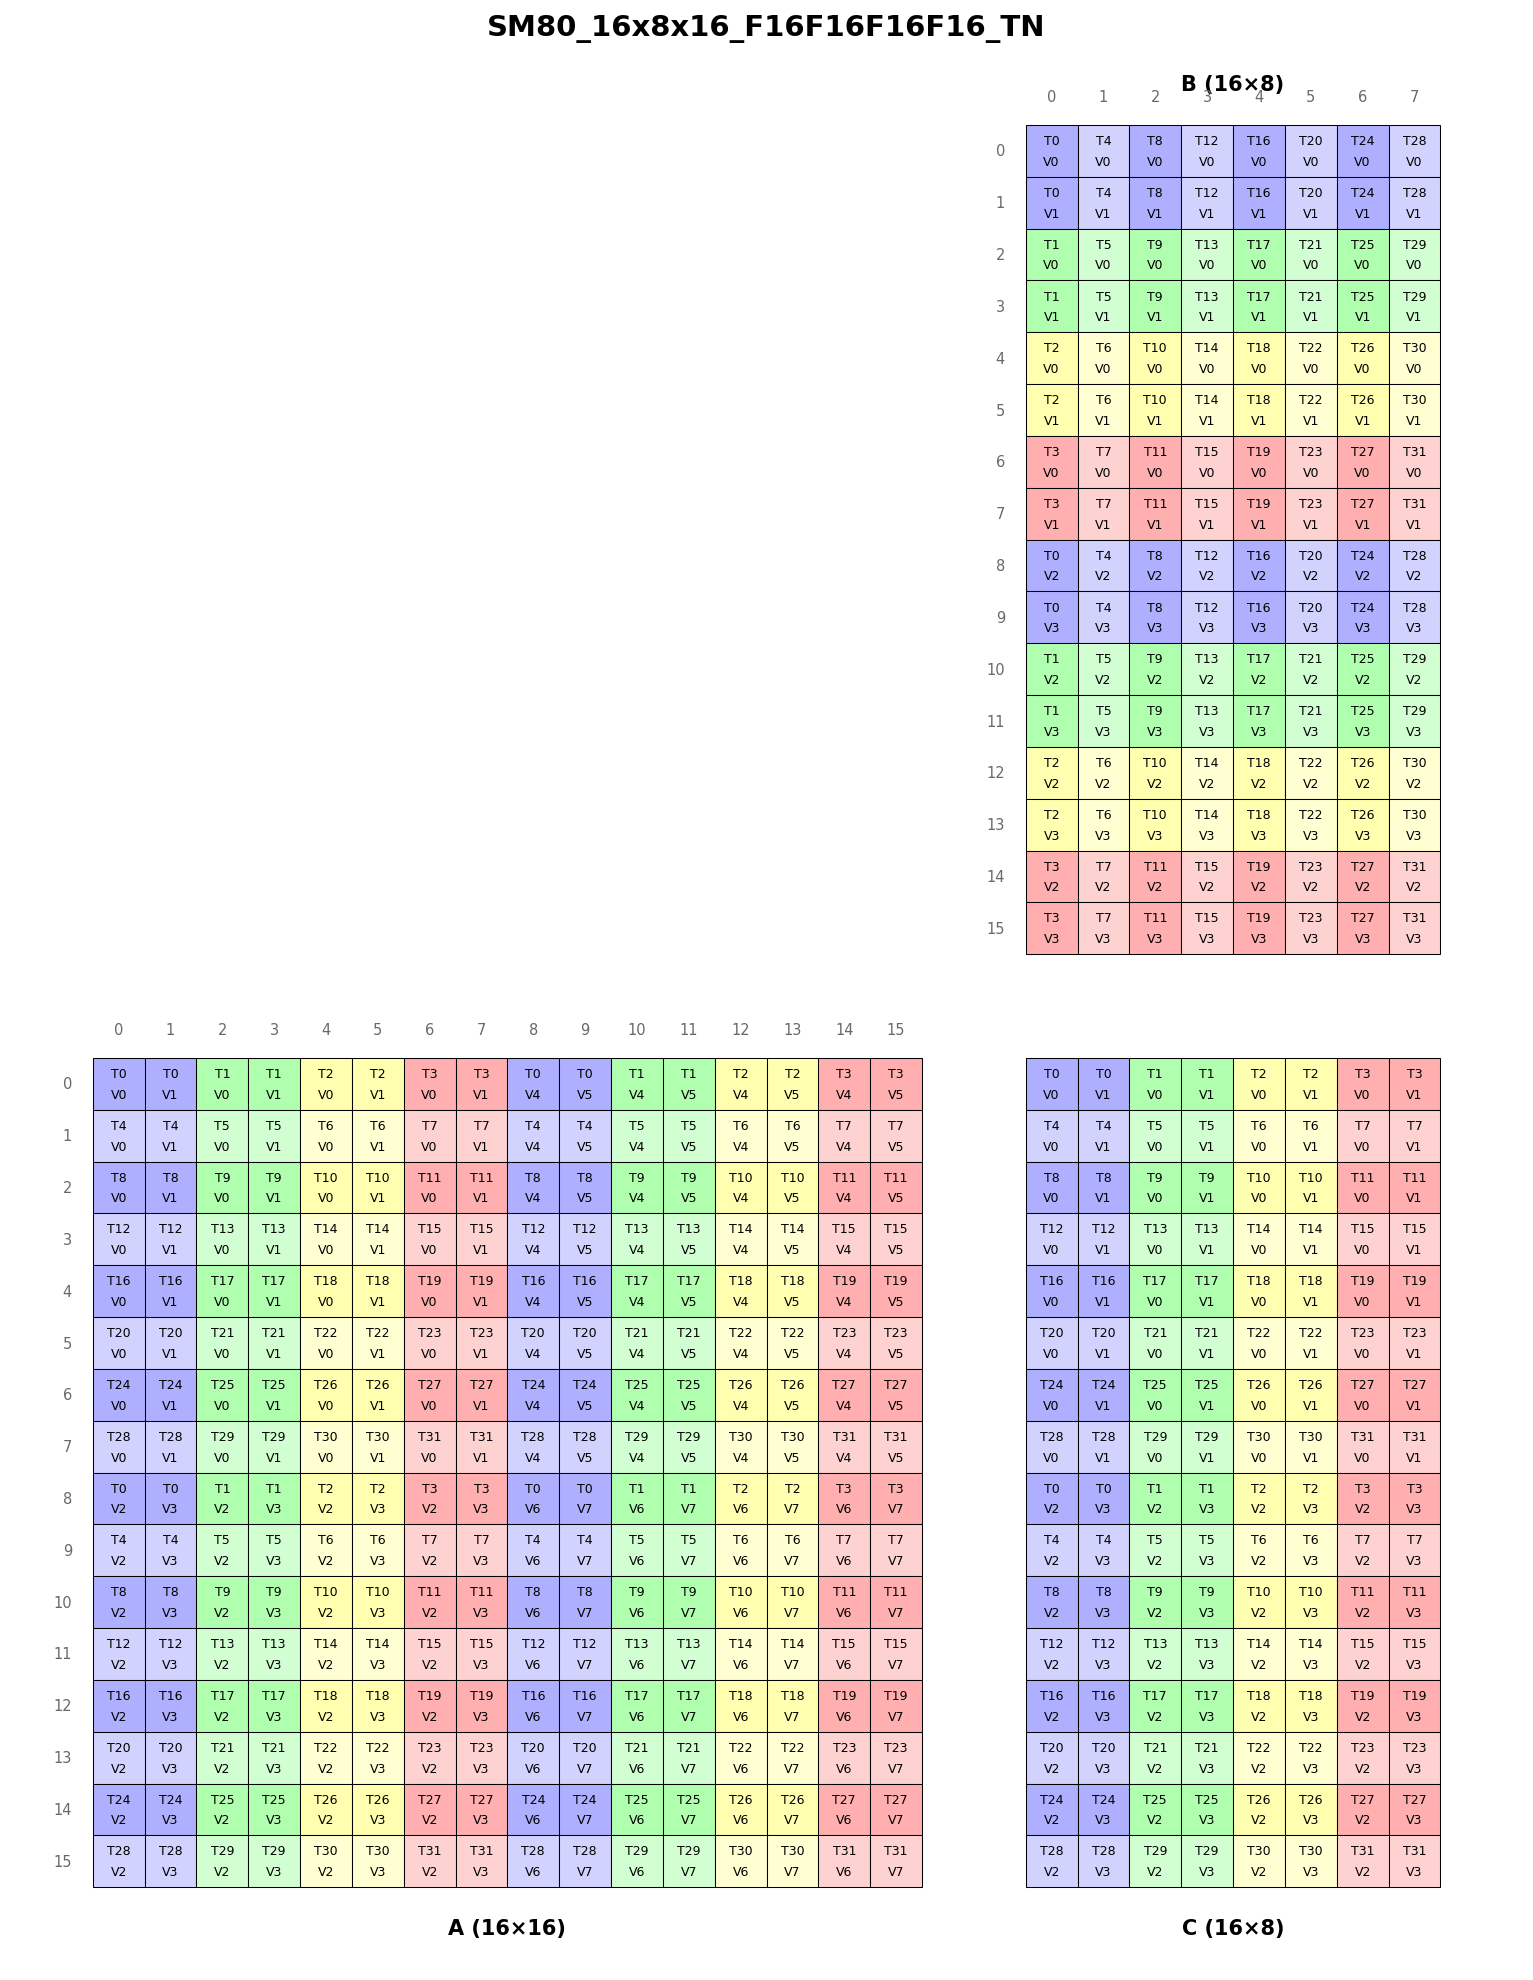
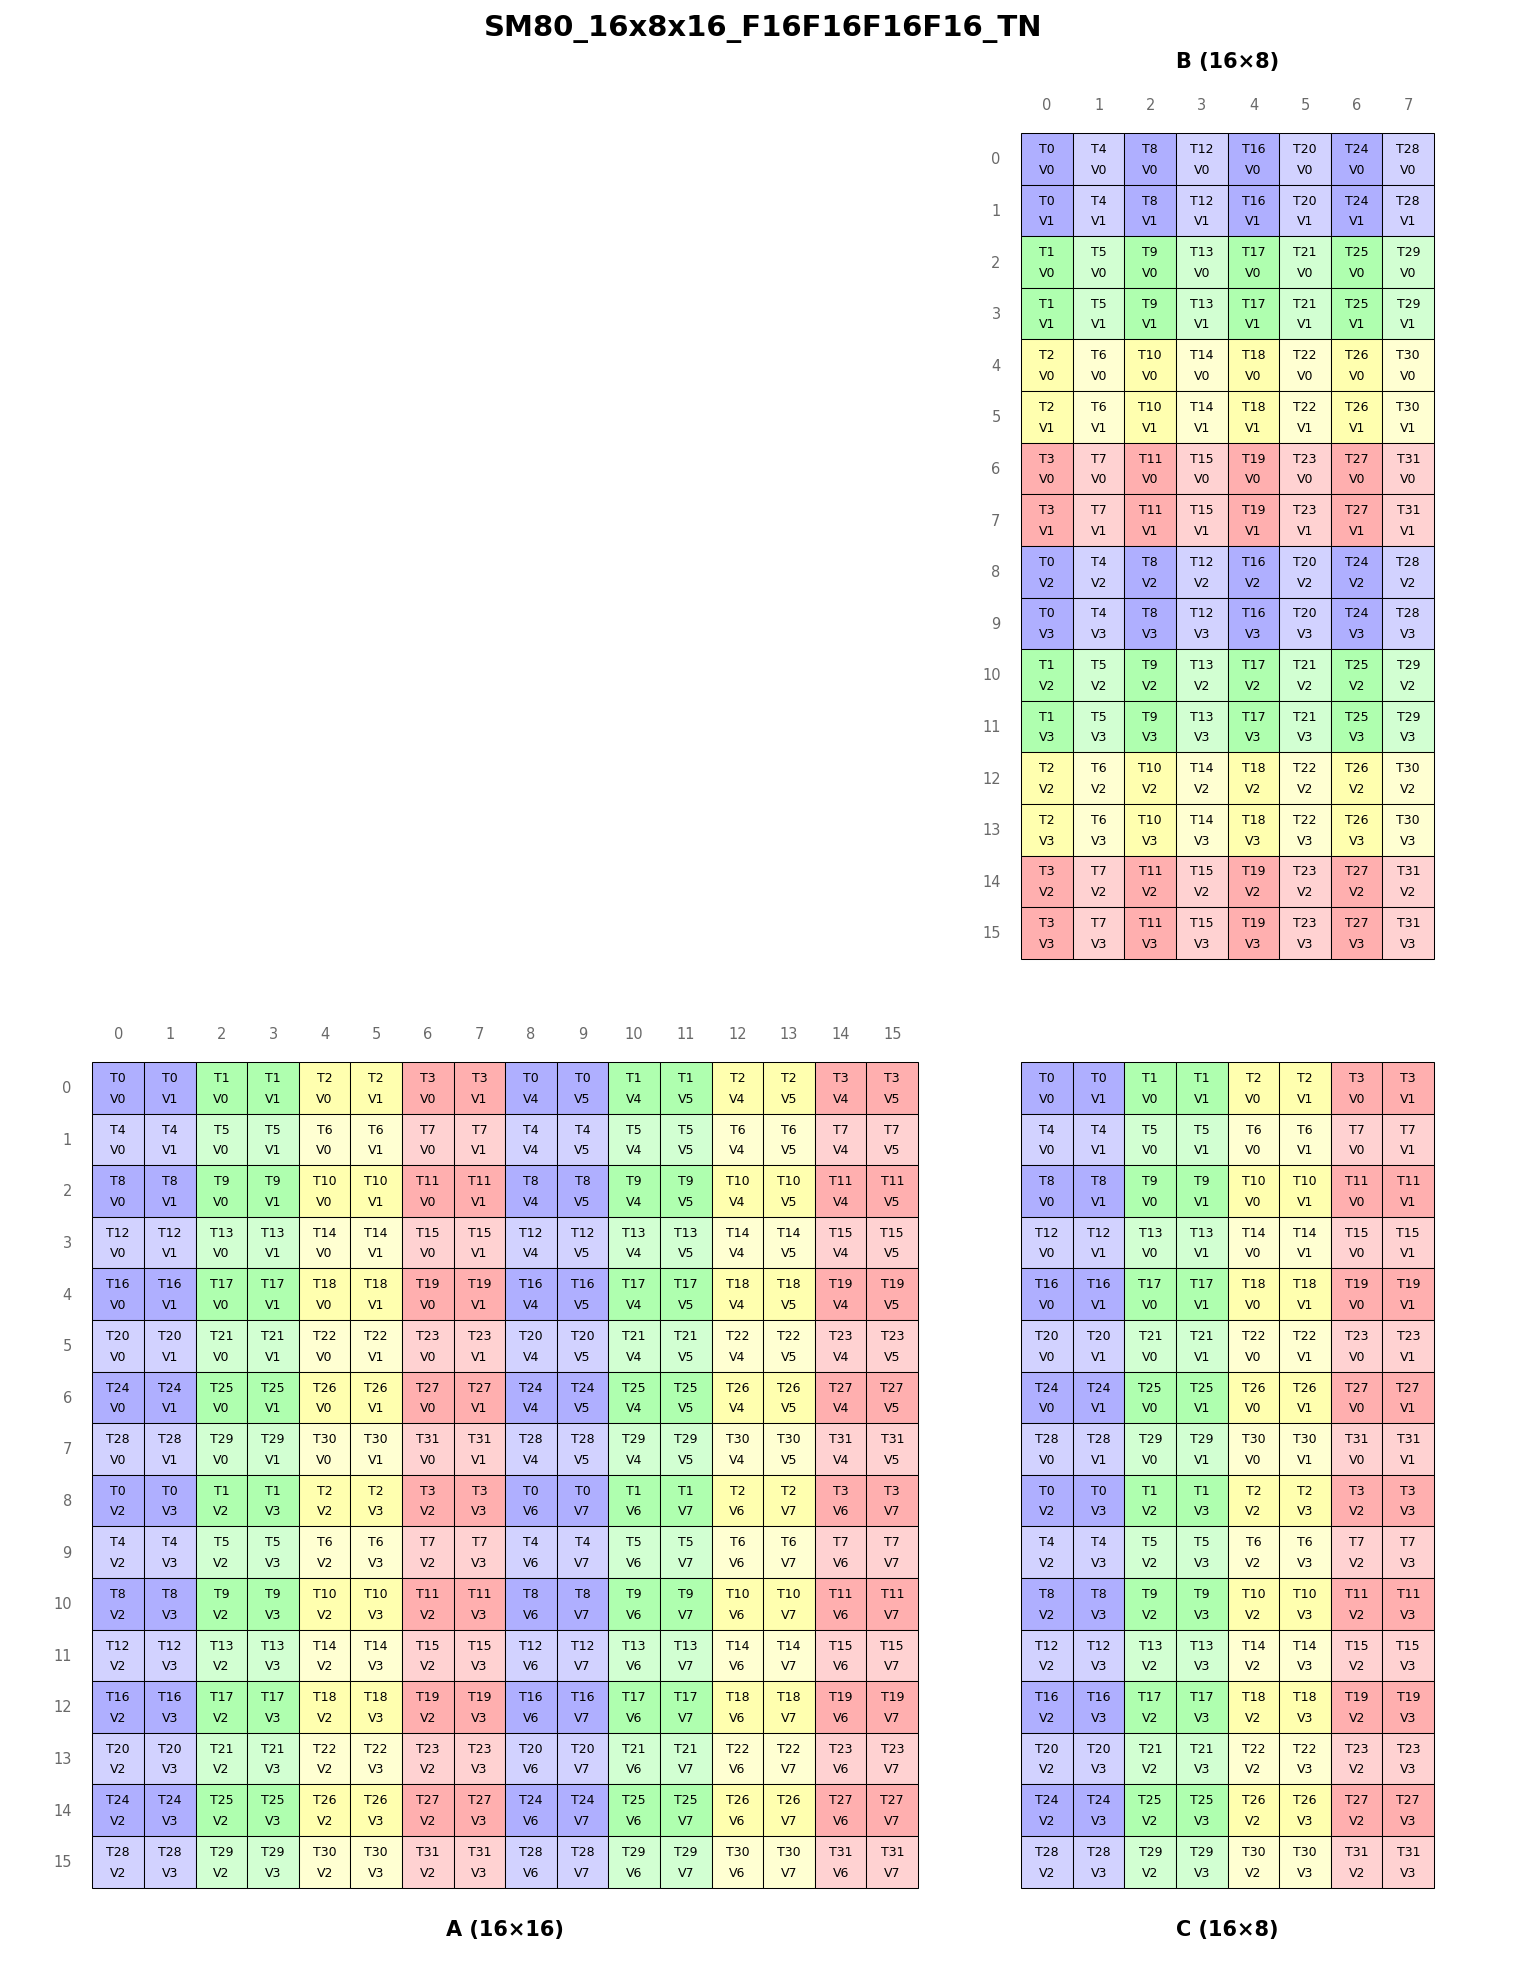
[docs] Add make docs target to regenerate documentation figures
Add docs/generate_figures.py that regenerates all 15 PNGs in
docs/images/ from the code snippets in README.md and viz_api.md.
Refresh the 7 figures that had drifted from the current viz output.

diff --git a/docs/generate_figures.py b/docs/generate_figures.py
@@ -1,0 +1,148 @@
+#!/usr/bin/env python3
+"""Regenerate all PNG figures used in the documentation.
+
+Run from the repo root:
+    PYTHONPATH=src python3 docs/generate_figures.py
+Or:
+    make docs
+"""
+
+import shutil
+from pathlib import Path
+
+from layout_algebra import Layout, Swizzle
+from layout_algebra.atoms_nv import SM80_16x8x16_F16F16F16F16_TN
+from layout_algebra.layout_utils import tile_mma_grid
+from layout_algebra.viz import (
+    draw_composite,
+    draw_layout,
+    draw_slice,
+    draw_swizzle,
+    draw_tiled_grid,
+    draw_tv_layout,
+    draw_mma_layout,
+)
+
+IMAGES = Path(__file__).resolve().parent / "images"
+
+
+def main():
+    IMAGES.mkdir(exist_ok=True)
+
+    layout_8x8 = Layout((8, 8), (8, 1))
+
+    # -- draw_layout (README + viz_api) --
+    draw_layout(
+        layout_8x8,
+        IMAGES / "draw_layout.png",
+        title="Row-Major 8x8",
+        colorize=True,
+    )
+    # README uses a separate file with identical content
+    shutil.copy(IMAGES / "draw_layout.png", IMAGES / "row_major_8x8.png")
+
+    # -- draw_swizzle (README + viz_api) --
+    draw_swizzle(
+        layout_8x8,
+        Swizzle(3, 0, 3),
+        IMAGES / "draw_swizzle.png",
+        colorize=True,
+    )
+    shutil.copy(IMAGES / "draw_swizzle.png", IMAGES / "swizzle_8x8.png")
+
+    # -- color_by presets --
+    draw_layout(
+        layout_8x8,
+        IMAGES / "color_by_row.png",
+        color_layout=Layout((8, 8), (1, 0)),
+        colorize=True,
+    )
+    draw_layout(
+        layout_8x8,
+        IMAGES / "color_by_col.png",
+        color_layout=Layout((8, 8), (0, 1)),
+        colorize=True,
+    )
+    draw_layout(
+        layout_8x8,
+        IMAGES / "color_uniform.png",
+        color_layout=Layout(1, 0),
+    )
+
+    # -- hierarchical --
+    hier = Layout(((2, 3), (2, 4)), ((1, 6), (2, 12)))
+    draw_layout(
+        hier,
+        IMAGES / "hierarchical.png",
+        flatten_hierarchical=False,
+        title="With explicit nested coordinates",
+    )
+
+    # -- draw_tv_layout --
+    atom = SM80_16x8x16_F16F16F16F16_TN
+    draw_tv_layout(
+        atom.c_layout,
+        IMAGES / "draw_tv_layout.png",
+        title="SM80 16x8x16 C (Thread-Value)",
+        colorize=True,
+    )
+
+    # -- draw_mma_layout --
+    draw_mma_layout(
+        atom.a_layout,
+        atom.b_layout,
+        atom.c_layout,
+        IMAGES / "draw_mma_layout.png",
+        tile_mnk=atom.shape_mnk,
+        main_title=atom.name,
+    )
+
+    # -- draw_slice --
+    slice_layout = Layout(((3, 2), ((2, 3), 2)), ((4, 1), ((2, 15), 100)))
+    draw_slice(
+        slice_layout,
+        ((1, None), ((None, 0), None)),
+        IMAGES / "draw_slice.png",
+        title="((1,:),((:,0),:))",
+    )
+
+    # -- draw_composite --
+    panels = [Layout((4, 4), (4, 1)), Layout((4, 4), (1, 4))]
+    draw_composite(
+        panels,
+        IMAGES / "draw_composite.png",
+        titles=["Row-Major", "Column-Major"],
+        main_title="Layout Comparison",
+        colorize=True,
+    )
+
+    # -- draw_tiled_grid --
+    atom_layout = Layout((2, 2), (1, 2))
+    grid, tile_shape = tile_mma_grid(atom, atom_layout, matrix="C")
+    draw_tiled_grid(
+        grid,
+        tile_shape[0],
+        tile_shape[1],
+        IMAGES / "draw_tiled_grid.png",
+        title="SM80 16x8x16 C \u2014 2x2 atoms",
+    )
+
+    # -- show_layout (no title) --
+    draw_layout(
+        layout_8x8,
+        IMAGES / "show_layout.png",
+        colorize=True,
+    )
+
+    # -- show_swizzle (no colorize) --
+    draw_swizzle(
+        layout_8x8,
+        Swizzle(3, 0, 3),
+        IMAGES / "show_swizzle.png",
+    )
+
+    print(f"Generated {len(list(IMAGES.glob('*.png')))} figures in {IMAGES}")
+
+
+if __name__ == "__main__":
+    main()
